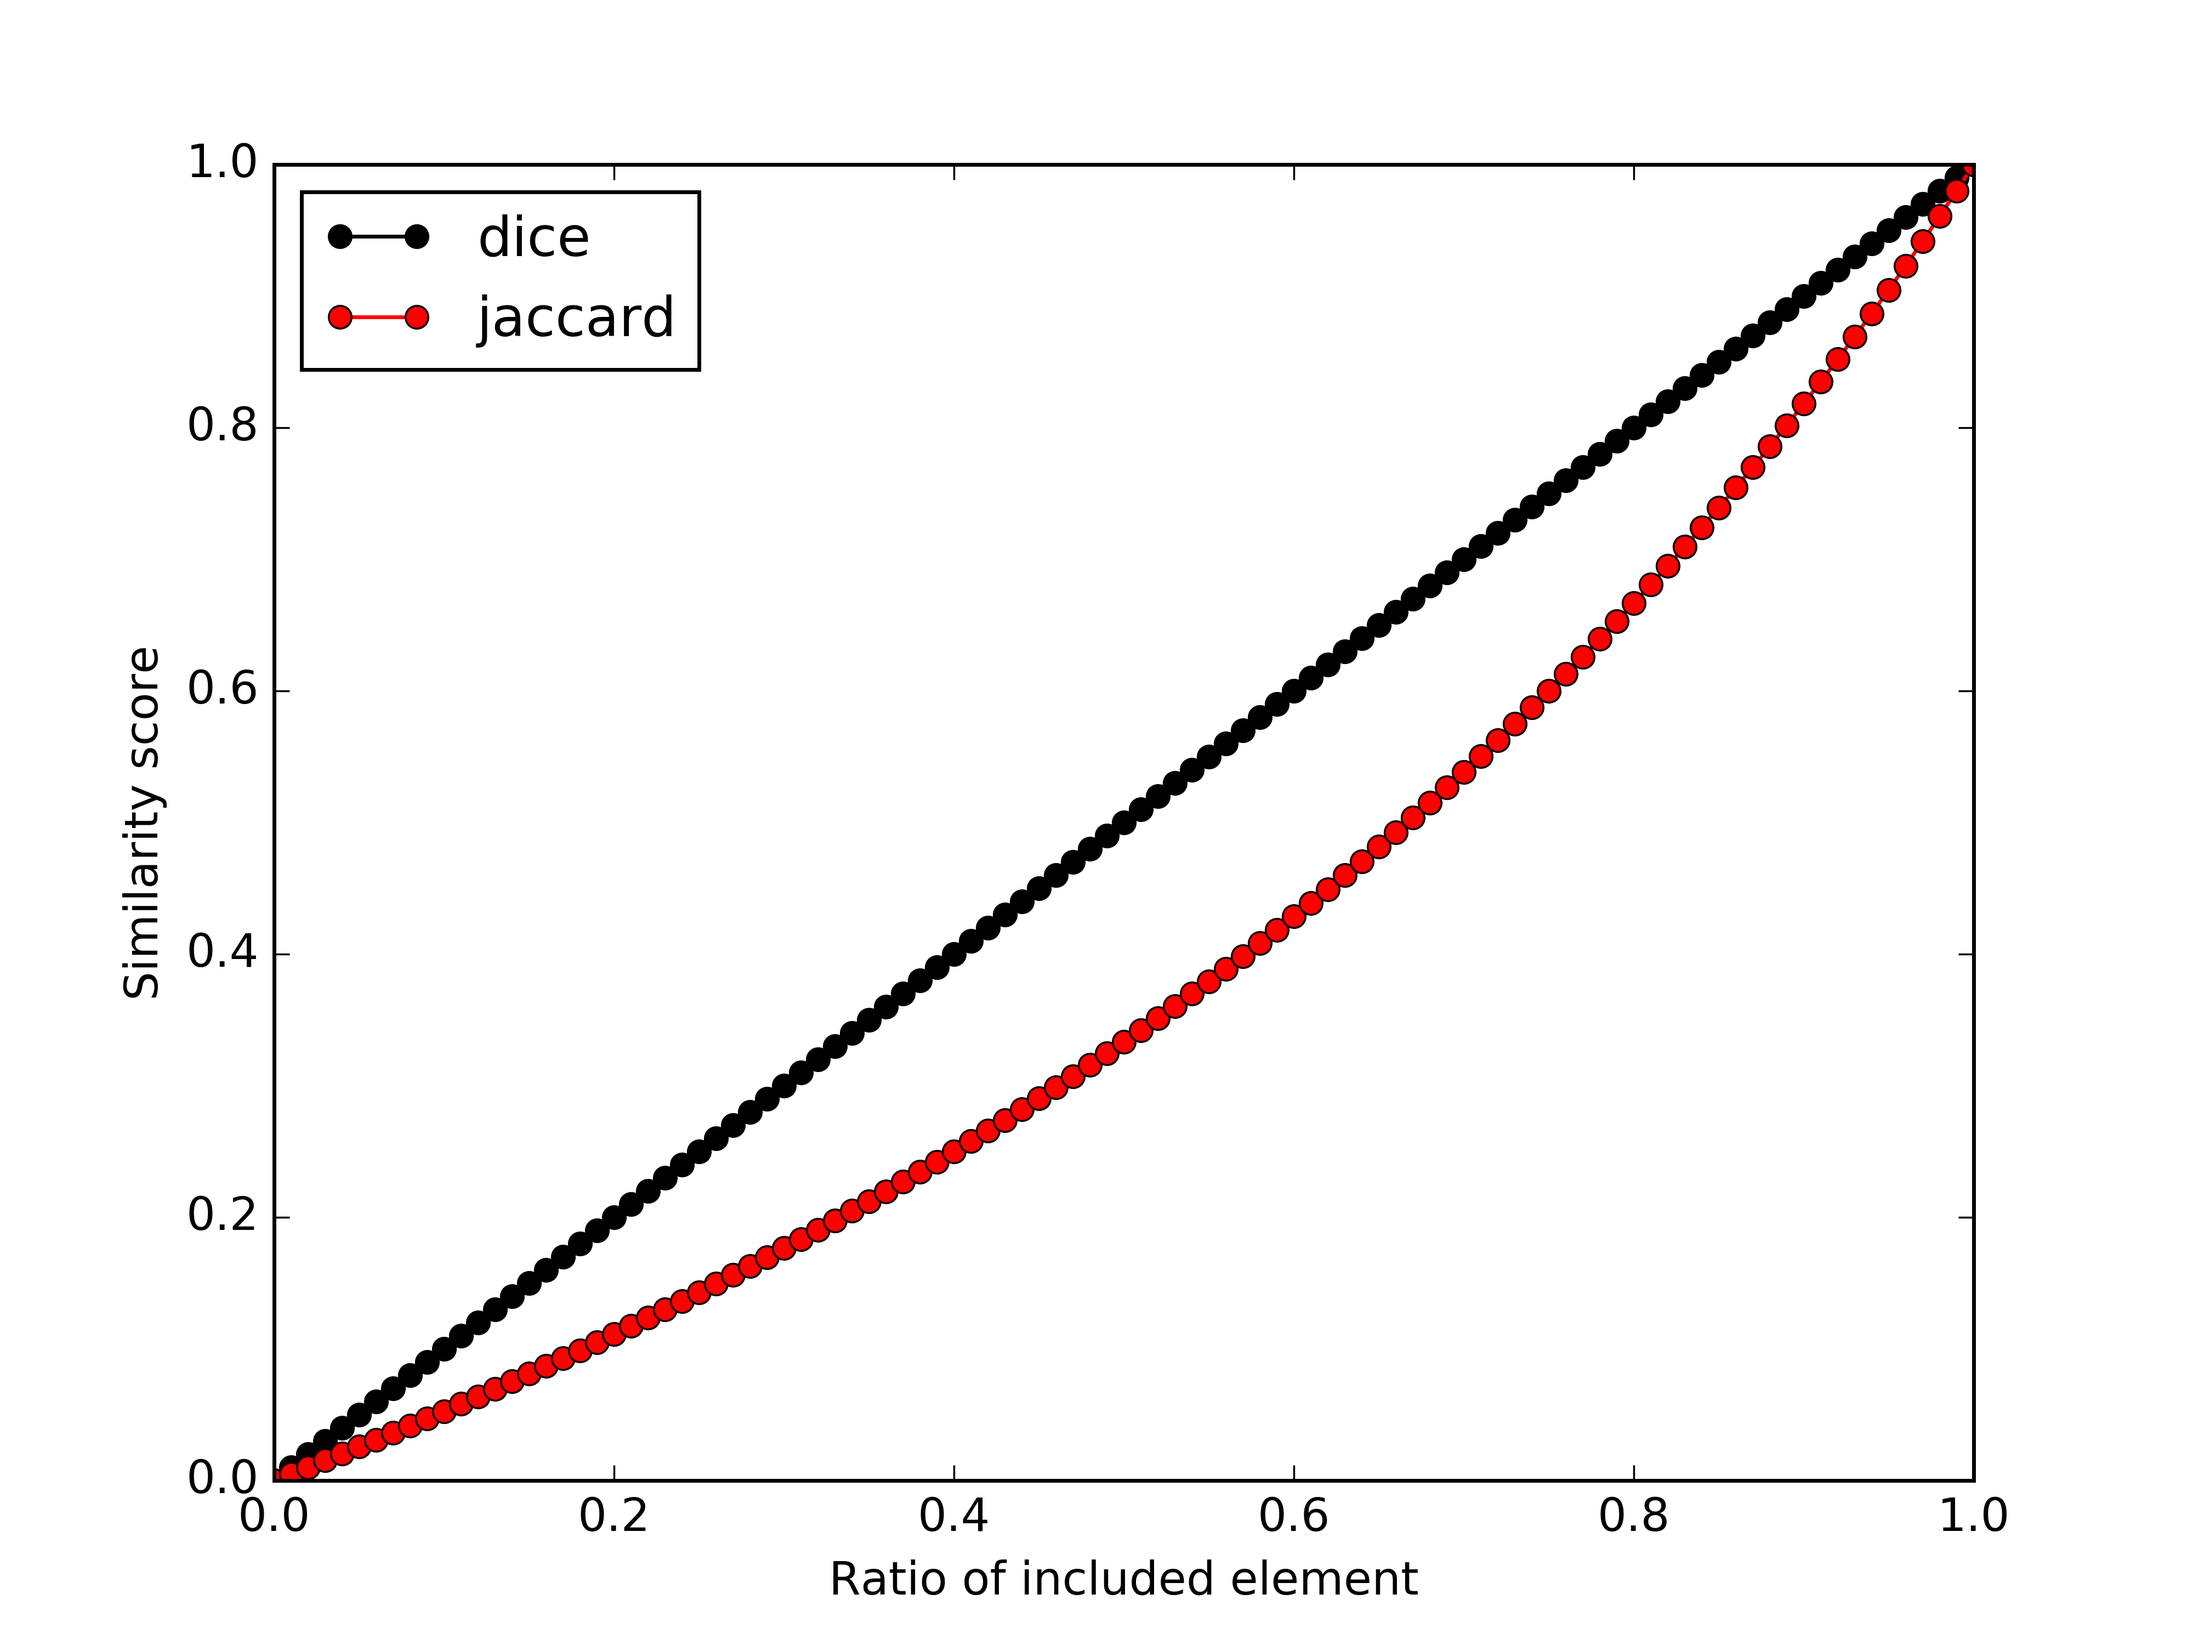
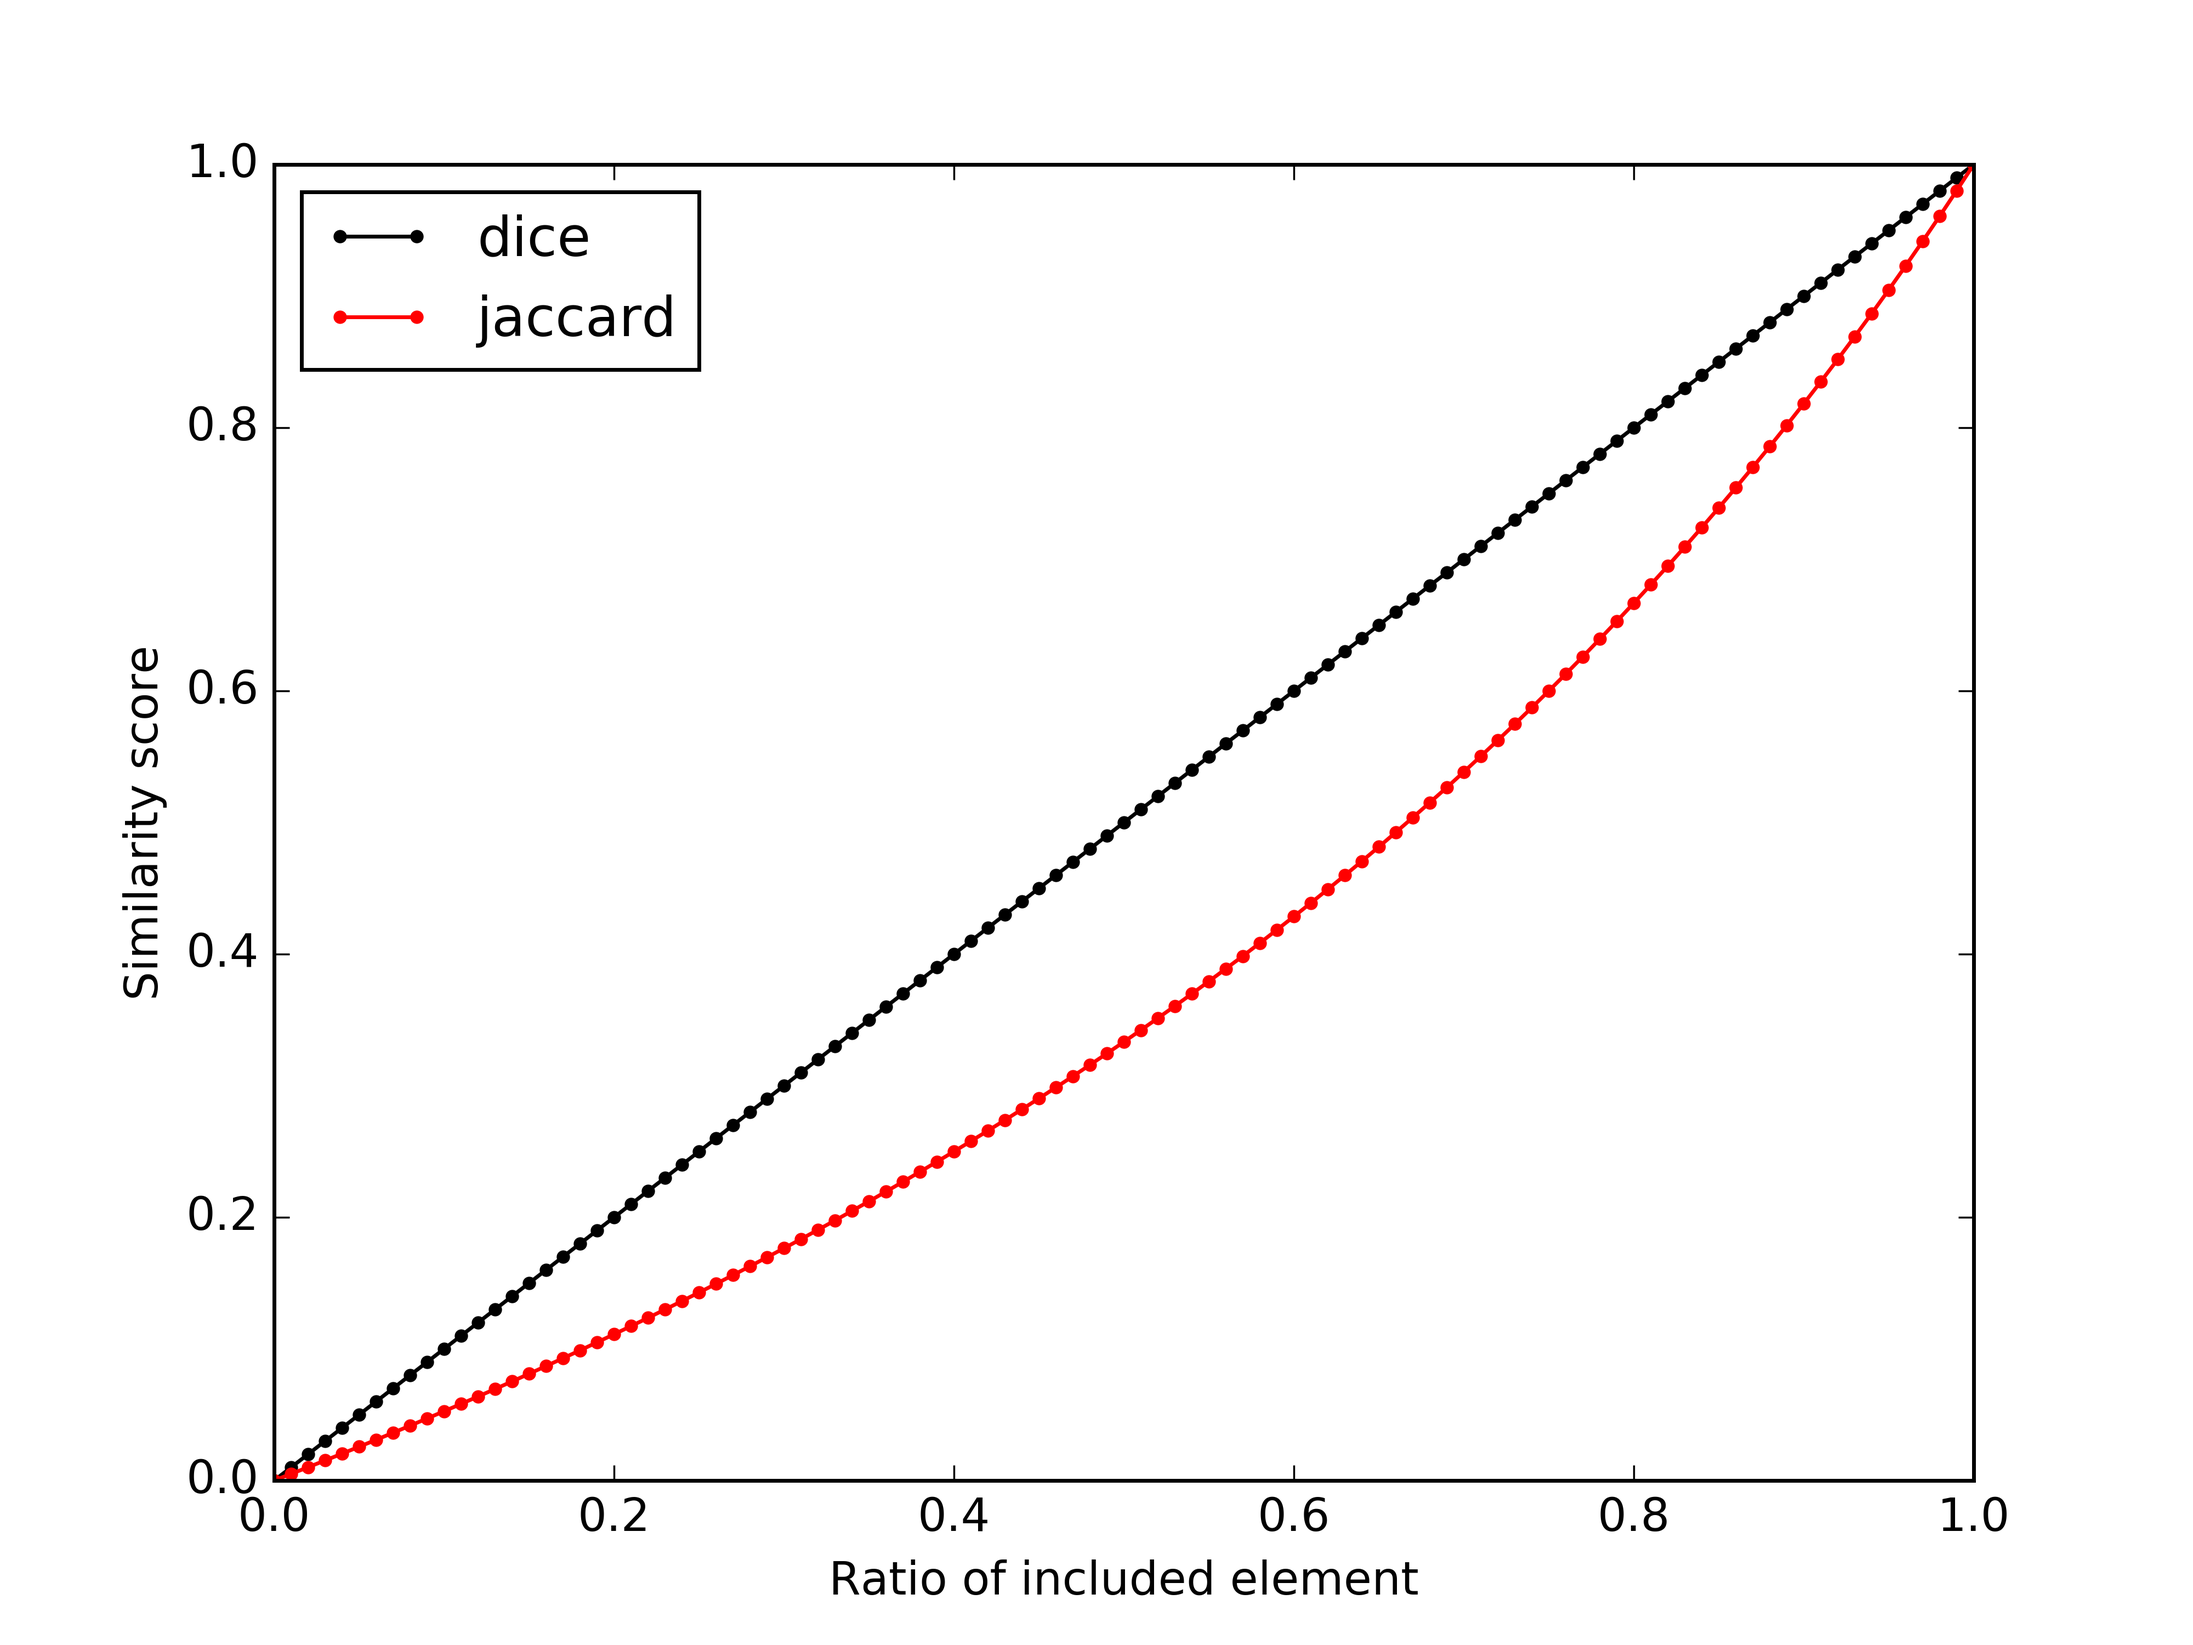
plots: use small dots instead of big circles

diff --git a/plot.py b/plot.py
@@ -25,8 +25,8 @@ def plot(measures:dict, title:str=TITLE, *, xlabel:str=XLABEL,
     """
     # convert in pandas data frame for allow plotting
     gx = pd.DataFrame.from_dict(measures)
-    # {black dotted,red,yellow,blue} line with marker o
-    styles = ['ko-', 'ro-', 'yo-', 'bo-']
+    # {black dotted,red} line with little dot
+    styles = ['k.-', 'r.-']
 
     # get plot, and sets the labels for the axis and the right axis (time)
     plot = gx.plot(style=styles)
